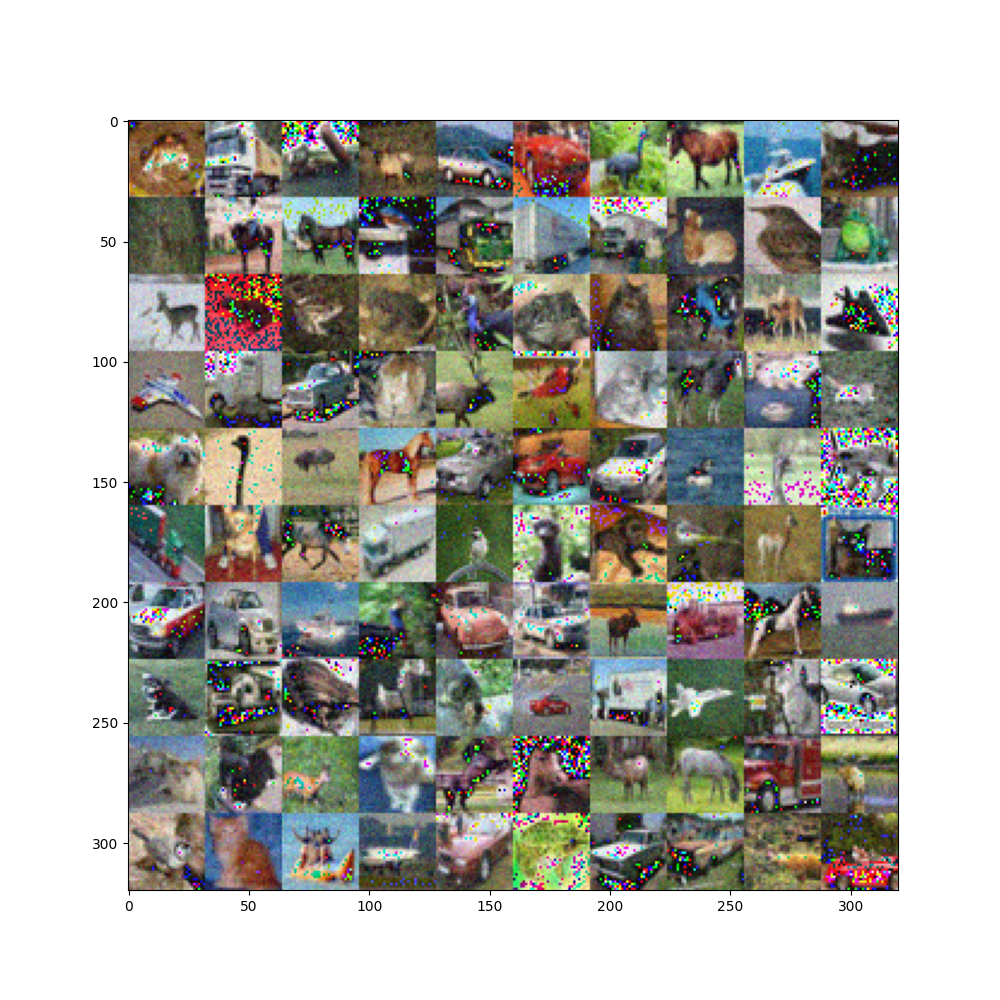
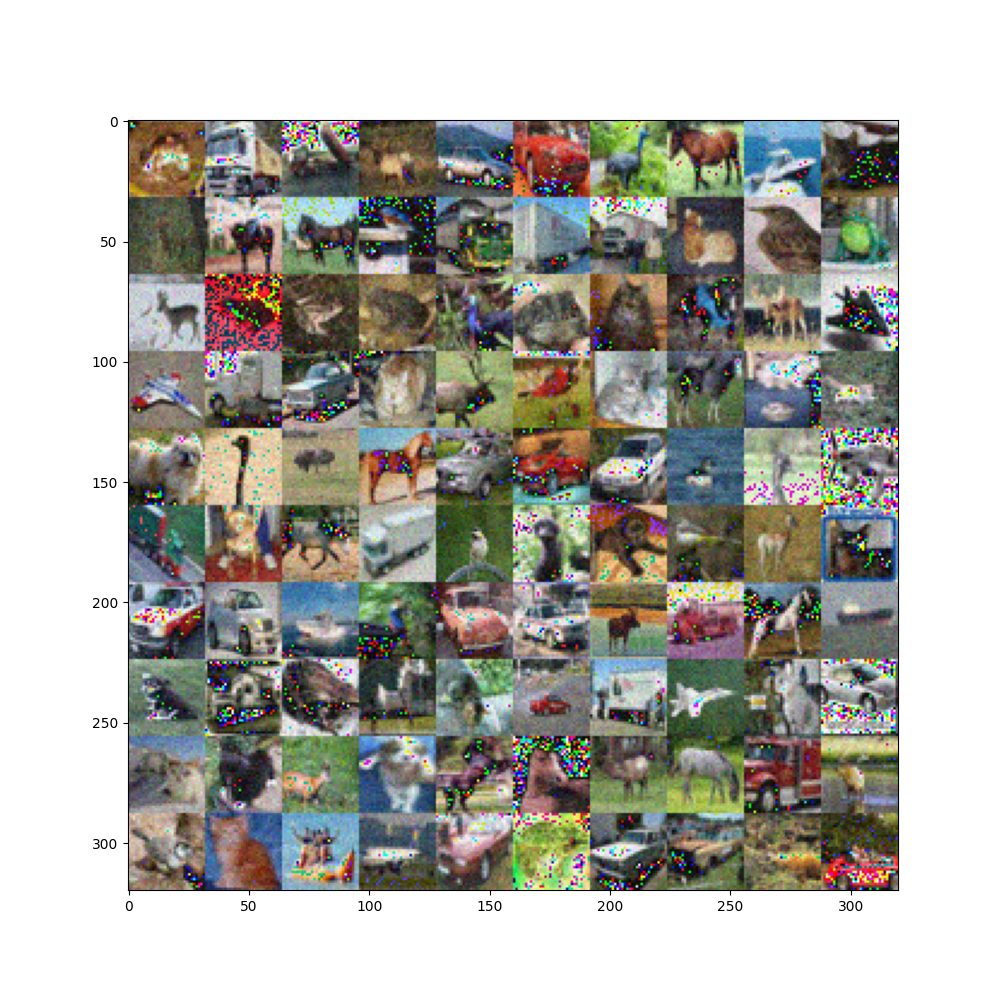
Update image encoding and visualization

Changed region(s): [[0.124, 0.124, 0.899, 0.899]]

diff --git a/ITP-359/homework/homework3/img_encoder.py b/ITP-359/homework/homework3/img_encoder.py
@@ -38,7 +38,6 @@ for i in range(100):
 plt.figure(figsize=(10,10))
 plt.imshow(noisy_full_images)
 plt.savefig('100_noisy_img')
-#plt.show()
 
 X_train = train_images.reshape(-1, 32, 32, 3)
 X_test = test_images.reshape(-1, 32, 32, 3)
@@ -62,20 +61,24 @@ autoencoder.add(tf.keras.layers.Conv2D((24), (3,3), activation='relu', padding='
 autoencoder.add(tf.keras.layers.Conv2D(3, (3,3), activation='sigmoid', padding='same'))
 
 autoencoder.compile(optimizer='adam', loss='mse')
-autoencoder.fit(X_train, X_train, epochs=10, batch_size=128, shuffle=True, validation_data=(X_test, X_test))
+autoencoder.fit(X_train, X_train, epochs=2, batch_size=128, shuffle=True, validation_data=(X_test, X_test))
 
-encoder = tf.keras.Model(inputs=autoencoder.input, outputs=autoencoder.layers[4].output)
 for i in range(50):
-    encoded_imgs = encoder.predict(X_test_noisy_img[i].reshape(1, 32, 32, 3))
+    encoded_imgs = autoencoder.predict(X_test_noisy_img[i].reshape(1, 32, 32, 3))
 
-full_images_compare = Image.new('RGB', (train_images.shape[1]*10, train_images.shape[2]*10))    
+
+full_images_compare = Image.new('RGB', (96, 64))    
 #side by side comparison of original and noisy images
 for i in range(3):
-    encoded_imgs = encoder.predict(X_test_noisy_img[i].reshape(1, 32, 32, 3))
+    print('test')
+    encoded_imgs = autoencoder.predict(X_test_noisy_img[i].reshape(1, 32, 32, 3))
+    
     im = Image.fromarray((X_test_noisy_img[i]*255).reshape(32,32,3).astype('uint8'))
     im2 = Image.fromarray((encoded_imgs.reshape(32,32,3)*255).astype('uint8'))
-    full_images_compare.paste(im, (i*32, 32))
-    full_images_compare.paste(im2, (i*64, train_images.shape[2]*10))
-
-plt.figure(figsize=(10,10))
+    full_images_compare.paste(im, (i*32, 0))
+    full_images_compare.paste(im2, (i*32, 32))
+    
+plt.figure()
+plt.imshow(full_images_compare)
 plt.savefig('noisy_img_encoded')
+plt.show()
